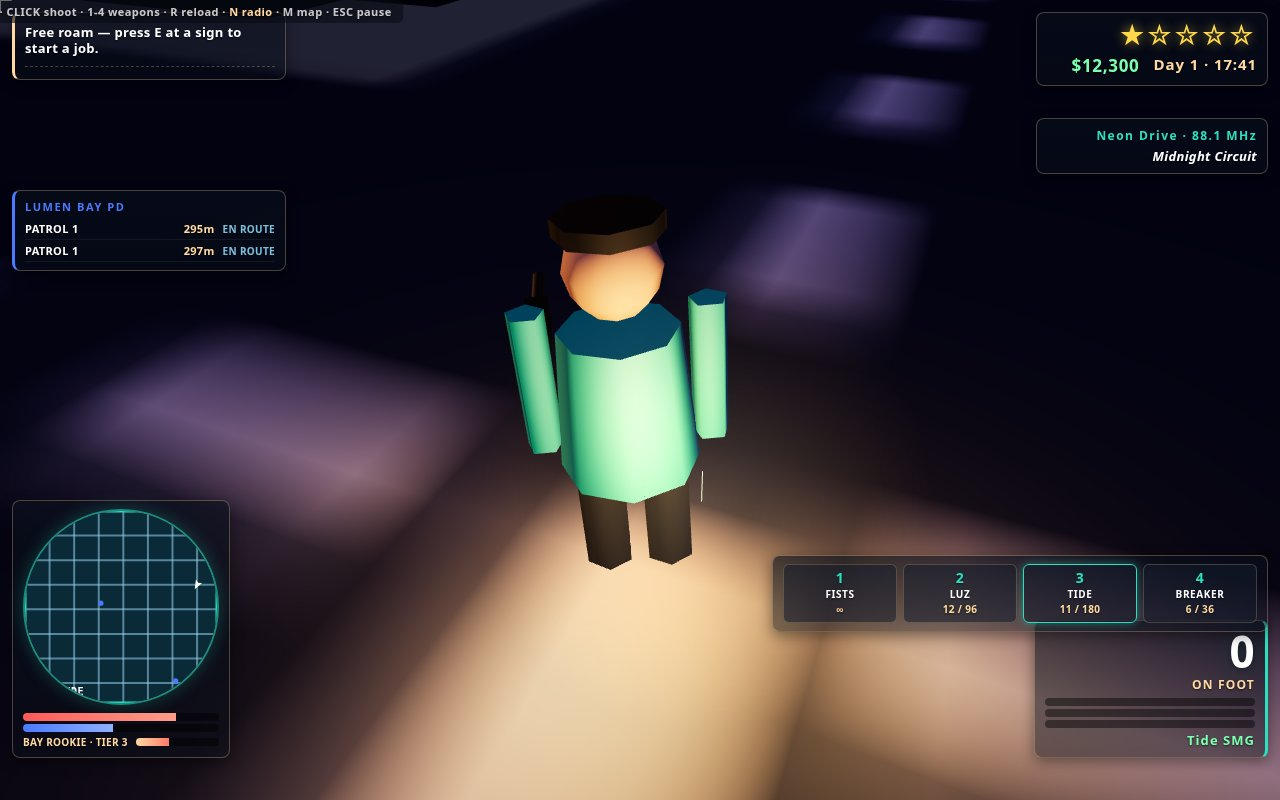
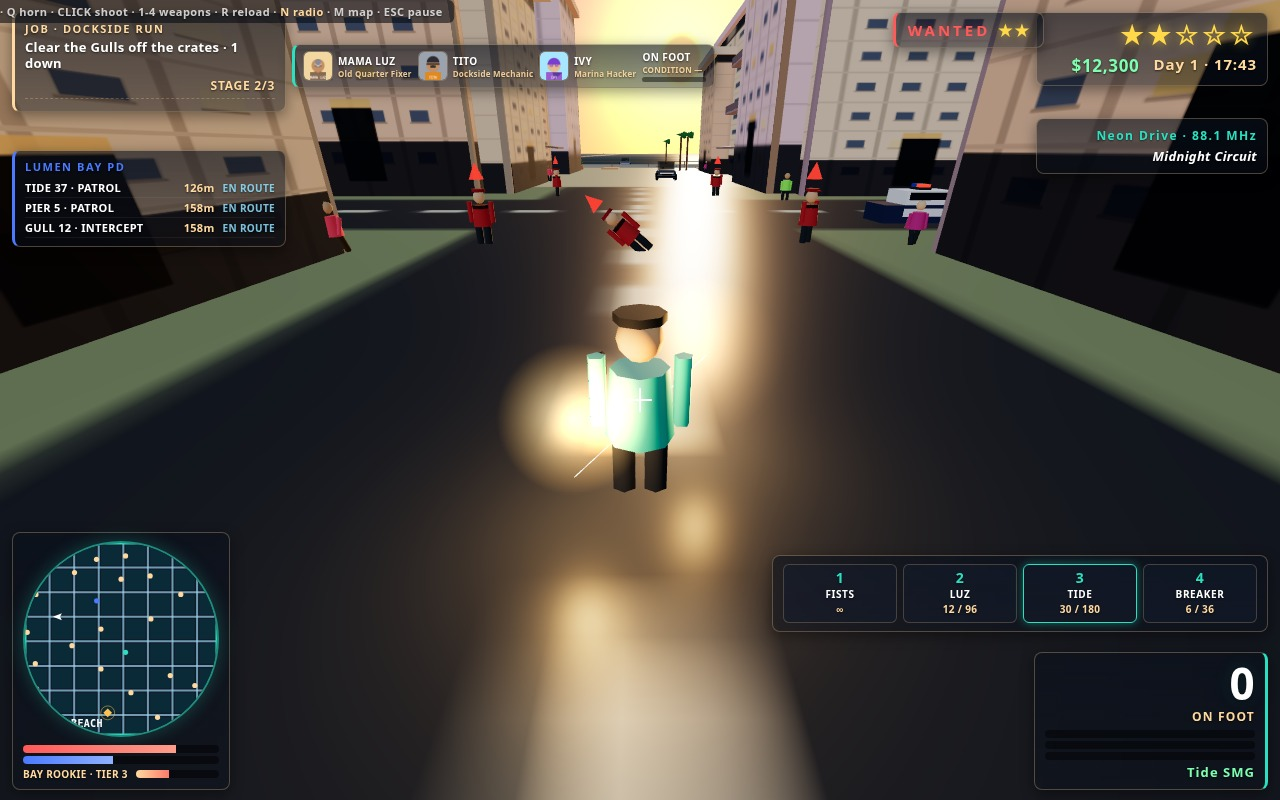
S35: crew row + popup fix + staged consistency + fresh 4 screenshots
- hud.js/index.html/hud.css: crew chip row (P10) — Mama Luz / Tito /
  Ivy portraits + catalog roles + a live car-condition chip (ON FOOT
  when on foot), top 44px / left 292px, clear of the mission panel,
  WANTED banner, heli body and popups. Display-only: the catalog cast
  has no ability/cooldown mechanics, so none are invented; the
  condition refresh rides in updateSpeedo.
- hud.js updatePopups reconciled in place (was rebuilding innerHTML
  every frame, restarting the rise animation at opacity 0 — popups
  never painted); hud.css poprise now settles at opacity 1, lifetime
  owned by the drain. main.js gates the popup drain on !shotSnap so
  the staged freeze holds the cover's DRIFT payout for the capture.
- shots.js stageShootout: the freeze held the fall timer at t=0 so
  the downed Gull captured upright — now posed 55% through the topple
  using the live enemies.js formula (marker still up). stageMenu
  persists the staged career via the real state.save() so CONTINUE
  reads enabled ('SAVE Ch.6 · $31,420 · Day 3 · 17:40'). stageMap
  flags shells 0-5 taken on their live handles (meshes removed) so
  the blips (18) match the staged CONCH 6/24.
- screenshots/ re-captured fresh (1280x800, PIL q92): 1-chase
  214,241 B, 2-shootout 151,658 B, 3-menu 105,442 B, 4-map 126,798 B,
  all <=256 KiB. Dossier rebuilt; kit check 4 passed / 0 failed.

diff --git a/game/src/hud/hud.js b/game/src/hud/hud.js
@@ -5,7 +5,8 @@
 // and all interaction lives in the menu/map/pause overlays. No network.
 import { WORLD, DISTRICTS, CAR, POLICE } from '../config.js';
 import { WEAPONS } from '../combat/weapons.js';
-import { SHELLS, MISSIONS } from '../missions/catalog.js';
+import { SHELLS, MISSIONS, CHARACTERS } from '../missions/catalog.js';
+import { drawPortrait } from '../missions/characters.js';
 
 const MINIMAP = 192;          // canvas px square
 const WORLD_W = WORLD.total;  // island span in metres
@@ -62,6 +63,42 @@ export function createHud(state, dom, opts = {}) {
   const radioStation = $('[data-hud="radio-station"]');
   const radioTrack = $('[data-hud="radio-track"]');
   const popupsEl = $('[data-hud="popups"]');
+
+  // ---- Crew chip row (P10) ------------------------------------------------
+  // The three ACTIVE crew — Mama Luz (fixer), Tito (mechanic), Ivy (hacker):
+  // the mission givers who run Rook's jobs. Rook is the player behind the
+  // wheel; Solano and Kestrel are the antagonists, not crew. The catalog
+  // cast is pure narrative data (catalog.js CHARACTERS: name/role/district/
+  // colour/bio) with NO ability, passive or cooldown mechanics anywhere in
+  // the sim, so the chips show portrait + name + role only — never invented
+  // keybinds or cooldowns. The fourth chip is the car's live condition,
+  // refreshed by updateSpeedo (the car panel) each frame.
+  const crewEl = $('[data-hud="crew"]');
+  const CREW_NAMES = ['Mama Luz', 'Tito', 'Ivy'];
+  if (crewEl) {
+    let html = '';
+    for (const name of CREW_NAMES) {
+      const c = CHARACTERS.find((x) => x.name === name);
+      html += `<div class="crew-chip">
+        <img class="crew-img" src="${drawPortrait(name)}" alt="">
+        <span class="crew-txt">
+          <span class="crew-name">${name.toUpperCase()}</span>
+          <span class="crew-role">${c ? c.role : ''}</span>
+        </span>
+      </div>`;
+    }
+    html += `<div class="crew-chip crew-cond">
+      <span class="crew-txt">
+        <span class="crew-name" data-hud="crew-car">ON FOOT</span>
+        <span class="crew-role">CONDITION <span data-hud="crew-cond-pct">0%</span></span>
+        <span class="bar cond crew-bar"><span class="fill" data-hud="crew-cond-fill"></span></span>
+      </span>
+    </div>`;
+    crewEl.innerHTML = html;
+  }
+  const crewCar = $('[data-hud="crew-car"]');
+  const crewCondPct = $('[data-hud="crew-cond-pct"]');
+  const crewCondFill = $('[data-hud="crew-cond-fill"]');
 
   // --hud-draw-- marker: minimap drawing helpers append below
 
@@ -313,7 +350,10 @@ export function createHud(state, dom, opts = {}) {
   // --hud-panels-2-- marker: second half of the panels append below
 
   /** Bottom-right speedometer: big km/h, car name, condition/nitro/fuel bars,
-   *  or an ON FOOT readout with the current weapon. */
+   *  or an ON FOOT readout with the current weapon. Also refreshes the crew
+   *  row's car-condition chip: that chip is car-derived, and this panel owns
+   *  the car readout (update()'s body is frozen by the P9 ghosting contract,
+   *  so the refresh rides here instead of adding a call there). */
   function updateSpeedo() {
     if (state.inCar && state.currentCar) {
       const car = state.currentCar;
@@ -323,6 +363,9 @@ export function createHud(state, dom, opts = {}) {
       if (nitroFill) nitroFill.style.width = Math.max(0, Math.min(100, car.nitro)) + '%';
       if (fuelFill) fuelFill.style.width = Math.max(0, Math.min(100, car.fuel)) + '%';
       if (onFootEl) onFootEl.style.display = 'none';
+      if (crewCar) crewCar.textContent = car.name.toUpperCase();
+      if (crewCondPct) crewCondPct.textContent = Math.round(Math.max(0, Math.min(100, car.condition))) + '%';
+      if (crewCondFill) crewCondFill.style.width = Math.max(0, Math.min(100, car.condition)) + '%';
     } else {
       if (speedoKmh) speedoKmh.textContent = '0';
       if (carName) carName.textContent = 'ON FOOT';
@@ -334,6 +377,9 @@ export function createHud(state, dom, opts = {}) {
         onFootEl.style.display = 'block';
         onFootEl.textContent = w;
       }
+      if (crewCar) crewCar.textContent = 'ON FOOT';
+      if (crewCondPct) crewCondPct.textContent = '—';
+      if (crewCondFill) crewCondFill.style.width = '0%';
     }
   }
 
@@ -390,20 +436,28 @@ export function createHud(state, dom, opts = {}) {
     radioTrack.textContent = tr;
   }
 
-  /** Centre-right score popups: drift, near miss, shell, mission payout. */
+  /** Centre-right score popups: drift, near miss, shell, mission payout.
+   *  Reconciled IN PLACE: rebuilding innerHTML every frame restarted each
+   *  popup's rise animation at its opacity-0 first keyframe, so popups never
+   *  actually painted. Existing nodes keep their animation; only text and
+   *  the fade class are touched, and nodes are added/removed as the list
+   *  changes. */
   function updatePopups() {
     if (!popupsEl) return;
     if (!state.popups) state.popups = [];
-    if (!state.popups.length) {
-      if (popupsEl.children.length) popupsEl.innerHTML = '';
-      return;
+    const list = state.popups;
+    while (popupsEl.children.length > list.length) popupsEl.removeChild(popupsEl.lastChild);
+    for (let i = 0; i < list.length; i += 1) {
+      const p = list[i];
+      let el = popupsEl.children[i];
+      if (!el) {
+        el = document.createElement('div');
+        el.className = 'popup';
+        popupsEl.appendChild(el);
+      }
+      if (el.textContent !== p.text) el.textContent = p.text;
+      el.classList.toggle('pop-fade', p.t < 0.8);
     }
-    let html = '';
-    for (const p of state.popups) {
-      const fade = p.t < 0.8 ? ' pop-fade' : '';
-      html += `<div class="popup${fade}">${p.text}</div>`;
-    }
-    popupsEl.innerHTML = html;
   }
 
   // --hud-panels-3-- marker: all panels defined

diff --git a/game/src/hud/hud.css b/game/src/hud/hud.css
@@ -82,6 +82,39 @@
 #hud .pl-state.en-route { color: #8fe0ff; }
 
 /* --hud-css-police-- marker: police list */
+/* Top-centre-left: crew chip row (P10) — three active crew portraits + roles
+   plus the car's live condition. Display-only: the catalog cast (catalog.js
+   CHARACTERS) has no ability/cooldown mechanics, so the chips show identity,
+   not invented keybinds. Placement from the chase-cover layout math at
+   1280x800: left 292px clears the mission panel (right edge ~290px); top
+   44px sits under GULLWATCH's body (top ~30px, x ~620-680) so the heli stays
+   readable; the row ends ~x735, well left of the WANTED banner (left edge
+   ~810px) and above the score popups (top 96px, right side). The hero car,
+   dialogue, minimap and weapon slots all live in the bottom half. */
+#hud .hud-crew {
+  top: 44px; left: 292px; display: flex; gap: 6px; align-items: center;
+  padding: 5px 8px; border-left: 3px solid #2ae0c0;
+}
+#hud .crew-chip { display: flex; align-items: center; gap: 5px; }
+#hud .crew-img {
+  width: 28px; height: 28px; border-radius: 6px; flex: 0 0 auto;
+  border: 1px solid rgba(255,217,160,0.45); background: #1a2230;
+  object-fit: cover;
+}
+#hud .crew-txt { display: flex; flex-direction: column; text-align: left; }
+#hud .crew-name {
+  font-size: 10px; color: #fff; letter-spacing: 0.04em; white-space: nowrap;
+}
+#hud .crew-role {
+  font-size: 8px; color: #ffd9a0; letter-spacing: 0.03em; white-space: nowrap;
+  opacity: 0.9;
+}
+#hud .crew-cond .crew-bar { width: 64px; height: 5px; margin: 2px 0 0; }
+#hud .crew-cond .crew-bar .fill {
+  background: linear-gradient(90deg, #ff5a5a, #ffd94a);
+}
+
+/* --hud-css-crew-- marker: crew chip row */
 /* Bottom-left: circular minimap canvas + health/armour/REP bars. Bottom edge
    dropped 42->10px so the police feed above gains clearance (see .hud-ml);
    the centred footer never reaches this far left at the 1280 layout. */
@@ -199,11 +232,14 @@
   animation: poprise 2.5s ease forwards;
 }
 #hud .popup.pop-fade { opacity: 0.25; }
+/* The rise settles at full opacity and HOLDS: the popup's lifetime is owned
+   by the state drain (removed at t=0, dimmed by .pop-fade in the last 0.8s),
+   not by the animation. Ending transparent here made staged capture popups
+   vanish 2.5s in even while the staged frame held everything else. */
 @keyframes poprise {
   0% { opacity: 0; transform: translateY(10px); }
   12% { opacity: 1; transform: translateY(0); }
-  80% { opacity: 1; }
-  100% { opacity: 0; }
+  100% { opacity: 1; }
 }
 
 /* --hud-css-popups-- marker: score popups */

diff --git a/game/src/shots.js b/game/src/shots.js
@@ -261,6 +261,15 @@ function stageShootout(ctx) {
   // so the capture catches it mid-topple (0.7s fall + 0.6s fade, enemies.js)
   // while the four main Gulls stay standing. The mission panel counts it.
   enemies.damage(fifth, 999);
+  // The capture freeze holds step(), so the fall timer never advances on its
+  // own and the body would stay upright at t=0. Pose it at the SAME rotation
+  // the live fall computes (enemies.js: t = 1 - fall/FALL_TIME), 55% through
+  // the topple — clearly dropping, marker still up (it hides only in fade).
+  {
+    const fallTime = fifth.fall;   // FALL_TIME, as damage() just set it
+    fifth.fall = fallTime * 0.45;
+    fifth.mesh.rotation.x = Math.min(Math.PI / 2, (1 - fifth.fall / fallTime) * Math.PI / 2);
+  }
   state.missionNext = 'STAGE 2/3: Clear the Gulls off the crates · 1 down';
 
   // Refill again right before the capture frame: a mid-hold reload must not
@@ -314,6 +323,12 @@ function stageMenu(ctx) {
   ctx.applySettings();
   ctx.ensureRadio();
 
+  // Persist the staged career through the REAL save path so the menu's
+  // CONTINUE button reads enabled with the mid-story summary (menu.js gates
+  // it on localStorage, not on state). Staging only: same save format, and
+  // every other shot resets state without loading it.
+  state.save();
+
   // Open the menu screen; menuRefresh() rebuilds CONTINUE from the save above.
   ctx.setScreen('menu');
 
@@ -327,7 +342,7 @@ function stageMenu(ctx) {
  *  career stats and the legend in the side panel, player + police blips on
  *  the canvas. */
 function stageMap(ctx) {
-  const { state } = ctx;
+  const { state, scene } = ctx;
 
   // A mid-story career for the stats panel + mission list.
   freshState(ctx, { doneThrough: 4, money: 31420, day: 2, rep: 4, repXp: 175 });
@@ -336,6 +351,18 @@ function stageMap(ctx) {
   state.takedowns = 9;
   state.escapes = 5;
   state.playSeconds = 3874;
+
+  // Staged consistency: the panel reads 6/24 conches, so the six west-coast
+  // shells (catalog order 0-5 — the coast route a fresh run walks first)
+  // are flagged taken on their LIVE placeShells() handles and their meshes
+  // dropped, so the map blips show the 18 still out there. Staging only:
+  // live pickup logic, state.shells and the save format are untouched.
+  if (ctx.shells) {
+    for (let i = 0; i < 6 && i < ctx.shells.length; i += 1) {
+      ctx.shells[i].taken = true;
+      scene.remove(ctx.shells[i].mesh);
+    }
+  }
 
   ctx.applySettings();
   ctx.ensureRadio();

diff --git a/game/src/main.js b/game/src/main.js
@@ -635,8 +635,10 @@ function boot() {
     if (screen === 'menu') menuCamera(frameTime);
     update(STEP, state.clockMinutes);
     hud.update(STEP);
-    // Drain popups so they disappear after their lifetime.
-    if (state.popups.length) {
+    // Drain popups so they disappear after their lifetime. A staged capture
+    // (?shot=) holds them like it holds the sim: stepping the drain would
+    // expire the cover's DRIFT payout before the screenshot lands.
+    if (!shotSnap && state.popups.length) {
       state.popups = state.popups.filter((p) => { p.t -= STEP; return p.t > 0; });
     }
   }
@@ -835,6 +837,8 @@ function boot() {
       state, city, driver, onFoot, arsenal, enemies, wanted, police, combat,
       mission, sideJobs, input, scene, camera, spawn, traffic, hud,
       crosshair: crosshairEl, parked, CARS, MISSIONS: missionCatalog,
+      // Live conch handles for staging-only consistency tweaks (stageMap).
+      shells,
       setScreen, ensureRadio, applySettings,
       stepWorld: step, update,
     };

diff --git a/game/index.html b/game/index.html
@@ -97,6 +97,11 @@
 
   <div id="police-list" class="panel hud-ml" data-hud="police-list"></div>
 
+  <!-- Crew chip row (P10): the three active crew portraits + roles beside a
+       live car-condition chip. Display-only — the catalog cast has no
+       ability/cooldown mechanics, so none are shown. Filled by hud.js. -->
+  <div id="crew-row" class="panel hud-crew" data-hud="crew"></div>
+
   <div class="panel hud-bl">
     <canvas data-hud="minimap" width="192" height="192"></canvas>
     <div class="bar health"><span class="fill" data-hud="health-fill"></span></div>
